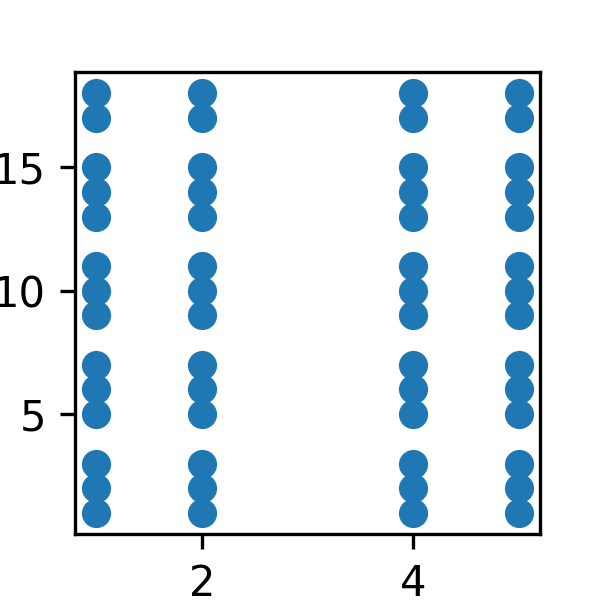
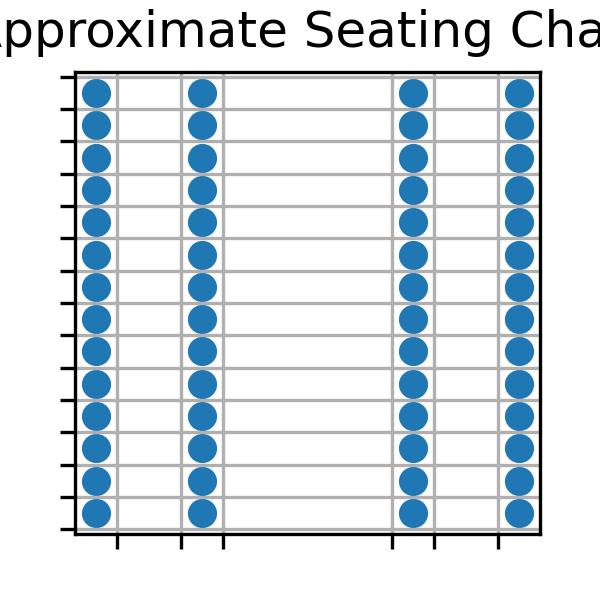
more

Changed region(s): [[0.0, 0.0, 1.0, 1.0], [0.0, 0.0, 0.48, 0.09], [0.66, 0.93, 0.72, 0.99]]

diff --git a/av.py b/av.py
@@ -111,7 +111,16 @@ class user_viz():
         for i in t_dict.items():
             x_arr.append(i[1][1])
             y_arr.append(i[1][0])
-        plt.scatter(x=x_arr, y=y_arr)
+        # im = plt.imread('results/bus_img.png')
+        # plt.imshow(im)
+        plt.title('Approximate Seating Chart')
+        plt.xticks(np.array([1.2, 1.8, 2.2, 3.8, 4.2, 4.8]))
+        plt.yticks(np.arange(-.5, 23.5, 1))
+        plt.grid(True)
+        # plt.tick_params(axis='both', left='off', top='off', right='off', bottom='off', labelleft='off', labeltop='off', labelright='off', labelbottom='off')
+        plt.scatter(x=x_arr, y=y_arr)#, marker='_')
+        plt.xticks(c='w')
+        plt.yticks(c='w')
         # plt.axis('off') # set axis to be blank
         # plt.show()
 
@@ -128,8 +137,23 @@ class user_viz():
         bus_trip, conc_array, out_mat, chance_nonzero = bus_sim(int(self.students_var), self.mask_var, self.number_simulations, self.trip_length, self.seat_var) # replace default with selected
         # print('conc_heat_figure')
         # plt.figure(figsize=(5,4))
-        plt.matshow(out_mat, cmap="OrRd", norm=mpl.colors.LogNorm())
-        plt.gcf().set_size_inches(2,2)
+        # plt.subplots()
+        # base = plt.gca().transData
+        # fig = plt.subplots() # ????
+        rot = mpl.transforms.Affine2D().rotate_deg(180)
+        fig = plt.figure()
+        ax1 = fig.add_subplot(1, 2, 1)
+        ax1.matshow(out_mat, cmap="OrRd", norm=mpl.colors.LogNorm())
+        ax2 = fig.add_subplot(1,2,2)
+        ax2.matshow(out_mat, cmap="OrRd")#, norm=mpl.colors.LogNorm())
+        # plt.arrow(-2,24,0,-26, head_width=0.2, head_length=0.2, fc='k', ec='k')
+        # plt.gcf().set_size_inches(2,2)
+        # plt.suptitle('Relative Airflow Heatmap', fontsize=7.5)
+        # plt.annotate(xy=(-1, -1), text='front', fontsize=5)
+        # plt.annotate(xy=(-1, 24), text='back', fontsize=5)
+
+        # log scale vs regular scale + 'be not afraid'
+        # plt.axis('off')
         plt.savefig('results/relative_airflow.png', dpi=300)
         print('relative airflow complete!')
         # plt.show()
@@ -144,7 +168,7 @@ class user_viz():
         bus_seating = self.generate_bus_seating()
         bus_trip, conc_array, out_mat, chance_nonzero = bus_sim(int(self.students_var), self.mask_var, self.number_simulations, self.trip_length, self.seat_var) # replace default with selected
         self.chance_nonzero = chance_nonzero
-        print(chance_nonzero, 'more than none?')
+        # print(chance_nonzero, 'more than none?')
         self.conc_array = conc_array
         self.bus_trips.append(bus_trip)
         # print('model_run start')
@@ -152,21 +176,21 @@ class user_viz():
         plt.gcf().set_size_inches(5,4)
         # plt.gcf().set_size_inches(5,4)
         # ax = plt.gca()
-        pd.Series(bus_trip).plot.kde()
+        pd.Series(bus_trip).plot.kde(lw=2, c='r')
         plt.title('Density estimation of exposure')
         # plt.xlim(0, .004)
-        #
-        # # set x ticks
+
+        # set x ticks
         # temp_x = np.array([i * 5 for i in range(8)])
         # str_x = np.array([str(int / 100)+'%' for int in temp_x])
-        # plt.xticks(np.arange(0, .004, .0005), str_x)
-        # plt.ticklabel_format(axis="x", style="sci", scilimits=(0,0))
+
+        plt.ticklabel_format(axis="x")#, style="sci", scilimits=(0,0))
 
         plt.yticks(np.arange(0, 3500, 700), np.arange(0, 3500, 700) / 3500)
 
 
         # rescale y axis to be % based
-        plt.xlabel('Likelihood of exposure to infectious dose of particles')
+        plt.xlabel('Likelihood of exposure to infectious dose of particles                         ')
         plt.ylabel('Density estimation of probability of occurrence')
         plt.savefig('results/window_curve.png', dpi=300)
         # plt.show()
